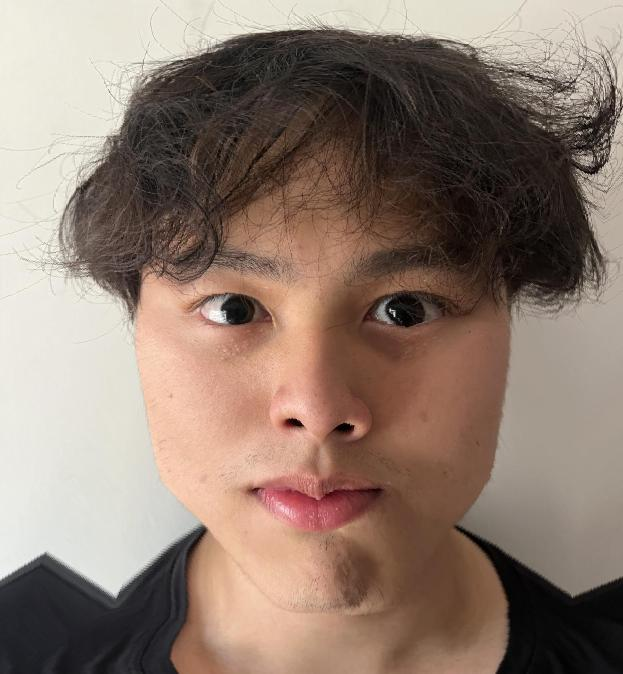
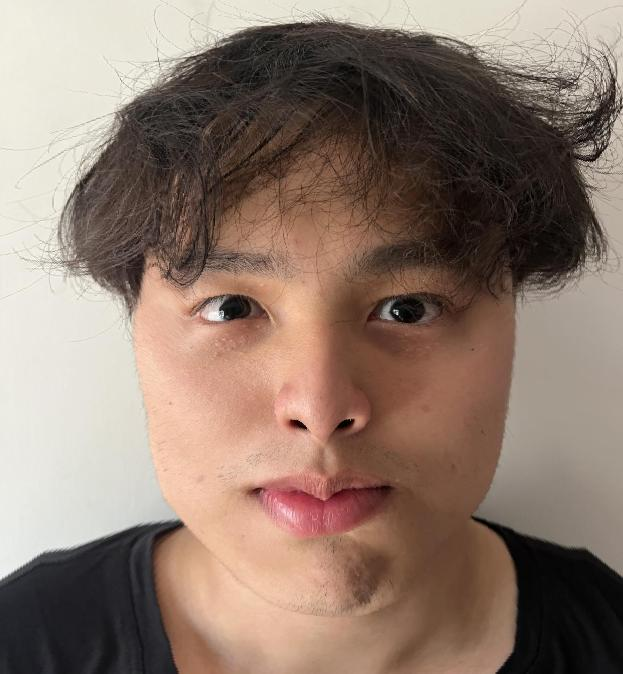
s

diff --git a/index.html b/index.html
@@ -119,13 +119,20 @@
         </div>
     </div>
 
-    <h2>Bells and Whistles: Changing Gender</h2>
-    <p>Below we have the average Burmese woman. We can define correspondences on her face, then warp a male face to this shape in order to see the effects. Below is an example with Kenny, first warping the shape alone, then also averaging the pixel values.</p>
+    <h2>Bells and Whistles: Changing Ethnicity</h2>
+    <p>Below we have the average Burmese person. We can define correspondences on the face, then warp a face to this shape in order to see the effects. Below is an example with Kenny, first warping the shape alone, then also averaging the pixel values.</p>
     <div class="gallery">
         <div class="gallery-item">
             <img src="proj3_data/myanmar_avg.jpg">
-            <p>Average Burmese woman</p>
+            <p>Average Burmese person</p>
         </div>
+        <div class="gallery-item">
+            <img src="proj3_data/kenny_female.jpg">
+            <p>Burmese Kenny shape</p>
+        </div>
+        <div class="gallery-item">
+            <img src="proj3_data/kenny_blended.jpg">
+            <p>Burmese Kenny</p>
     </div>
 
 
